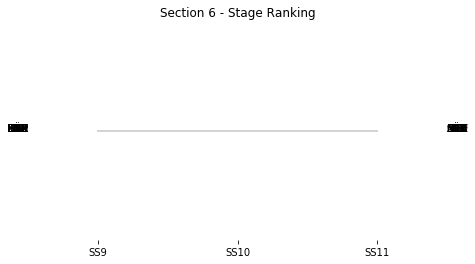
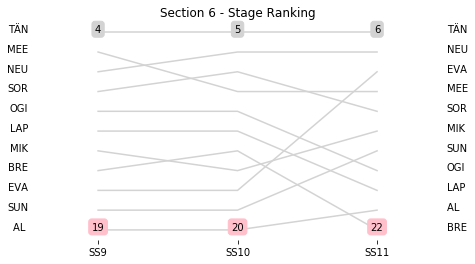
day 2 morning

diff --git a/Section 6_report.md b/Section 6_report.md
@@ -16,63 +16,67 @@ The full scheduled itinerary for the section was as follows:
 
 
 
+
+
 ### Section 6 Report
 Section 6
 
-![](images/spchart_stage_Section 6.png)
+![](images/spchart_stage_Section 6.png)Section 6
+
+![](images/spchart_overall_Section 6.png)
 Stage Result - SS9
 
-|Driver|            Team             |Elapsed Duration|Position|Class Rank|diffFirst|diffPrev|
-|------|-----------------------------|----------------|--------|----------|---------|--------|
-|SOR   |HYUNDAI SHELL MOBIS WRT      |                |NaN     |NaN       |         |        |
-|OGI   |M-SPORT FORD WORLD RALLY TEAM|                |NaN     |NaN       |         |        |
-|NEU   |HYUNDAI SHELL MOBIS WRT      |                |NaN     |NaN       |         |        |
-|TÄN   |TOYOTA GAZOO RACING WRT      |                |NaN     |NaN       |         |        |
-|MEE   |CITROEN TOTAL ABU DHABI WRT  |                |NaN     |NaN       |         |        |
-|EVA   |M-SPORT FORD WORLD RALLY TEAM|                |NaN     |NaN       |         |        |
-|SUN   |M-SPORT FORD WORLD RALLY TEAM|                |NaN     |NaN       |         |        |
-|AL    |CITROEN TOTAL ABU DHABI WRT  |                |NaN     |NaN       |         |        |
-|BRE   |CITROEN TOTAL ABU DHABI WRT  |                |NaN     |NaN       |         |        |
-|MIK   |HYUNDAI SHELL MOBIS WRT      |                |NaN     |NaN       |         |        |
-|LAP   |TOYOTA GAZOO RACING WRT      |                |NaN     |NaN       |         |        |
+|Driver|            Team             |Elapsed Duration|Position|Class Rank|   diffFirst    |    diffPrev    |
+|------|-----------------------------|----------------|-------:|---------:|----------------|----------------|
+|TÄN   |TOYOTA GAZOO RACING WRT      |00:09:00.1000000|       1|         1|00:00:00        |00:00:00        |
+|MEE   |CITROEN TOTAL ABU DHABI WRT  |00:09:03.9000000|       2|         2|00:00:03.8000000|00:00:03.8000000|
+|NEU   |HYUNDAI SHELL MOBIS WRT      |00:09:04.2000000|       3|         3|00:00:04.1000000|00:00:00.3000000|
+|SOR   |HYUNDAI SHELL MOBIS WRT      |00:09:05.7000000|       4|         4|00:00:05.6000000|00:00:01.5000000|
+|OGI   |M-SPORT FORD WORLD RALLY TEAM|00:09:07.9000000|       5|         5|00:00:07.8000000|00:00:02.2000000|
+|LAP   |TOYOTA GAZOO RACING WRT      |00:09:08.5000000|       6|         6|00:00:08.4000000|00:00:00.6000000|
+|MIK   |HYUNDAI SHELL MOBIS WRT      |00:09:10.7000000|       7|         7|00:00:10.6000000|00:00:02.2000000|
+|BRE   |CITROEN TOTAL ABU DHABI WRT  |00:09:11.8000000|       8|         8|00:00:11.7000000|00:00:01.1000000|
+|EVA   |M-SPORT FORD WORLD RALLY TEAM|00:09:17.5000000|       9|         9|00:00:17.4000000|00:00:05.7000000|
+|SUN   |M-SPORT FORD WORLD RALLY TEAM|00:09:21.9000000|      10|        10|00:00:21.8000000|00:00:04.4000000|
+|AL    |CITROEN TOTAL ABU DHABI WRT  |00:09:46.3000000|      19|        11|00:00:46.2000000|00:00:01.2000000|
 
 
 
 
 Stage Result - SS10
 
-|Driver|            Team             |Elapsed Duration|Position|Class Rank|diffFirst|diffPrev|
-|------|-----------------------------|----------------|--------|----------|---------|--------|
-|SOR   |HYUNDAI SHELL MOBIS WRT      |                |NaN     |NaN       |         |        |
-|OGI   |M-SPORT FORD WORLD RALLY TEAM|                |NaN     |NaN       |         |        |
-|BRE   |CITROEN TOTAL ABU DHABI WRT  |                |NaN     |NaN       |         |        |
-|MEE   |CITROEN TOTAL ABU DHABI WRT  |                |NaN     |NaN       |         |        |
-|NEU   |HYUNDAI SHELL MOBIS WRT      |                |NaN     |NaN       |         |        |
-|SUN   |M-SPORT FORD WORLD RALLY TEAM|                |NaN     |NaN       |         |        |
-|AL    |CITROEN TOTAL ABU DHABI WRT  |                |NaN     |NaN       |         |        |
-|MIK   |HYUNDAI SHELL MOBIS WRT      |                |NaN     |NaN       |         |        |
-|LAP   |TOYOTA GAZOO RACING WRT      |                |NaN     |NaN       |         |        |
-|EVA   |M-SPORT FORD WORLD RALLY TEAM|                |NaN     |NaN       |         |        |
-|TÄN   |TOYOTA GAZOO RACING WRT      |                |NaN     |NaN       |         |        |
+|Driver|            Team             |Elapsed Duration|Position|Class Rank|   diffFirst    |    diffPrev    |
+|------|-----------------------------|----------------|-------:|---------:|----------------|----------------|
+|TÄN   |TOYOTA GAZOO RACING WRT      |00:08:16.7000000|       1|         1|00:00:00        |00:00:00        |
+|NEU   |HYUNDAI SHELL MOBIS WRT      |00:08:21.5000000|       2|         2|00:00:04.8000000|00:00:04.8000000|
+|SOR   |HYUNDAI SHELL MOBIS WRT      |00:08:21.8000000|       3|         3|00:00:05.1000000|00:00:00.3000000|
+|MEE   |CITROEN TOTAL ABU DHABI WRT  |00:08:24.2000000|       4|         4|00:00:07.5000000|00:00:02.4000000|
+|OGI   |M-SPORT FORD WORLD RALLY TEAM|00:08:27.9000000|       5|         5|00:00:11.2000000|00:00:03.7000000|
+|LAP   |TOYOTA GAZOO RACING WRT      |00:08:28.4000000|       6|         6|00:00:11.7000000|00:00:00.5000000|
+|BRE   |CITROEN TOTAL ABU DHABI WRT  |00:08:30.2000000|       7|         7|00:00:13.5000000|00:00:01.8000000|
+|MIK   |HYUNDAI SHELL MOBIS WRT      |00:08:32.2000000|       8|         8|00:00:15.5000000|00:00:02        |
+|EVA   |M-SPORT FORD WORLD RALLY TEAM|00:08:33.2000000|       9|         9|00:00:16.5000000|00:00:01        |
+|SUN   |M-SPORT FORD WORLD RALLY TEAM|00:08:39.4000000|      10|        10|00:00:22.7000000|00:00:06.2000000|
+|AL    |CITROEN TOTAL ABU DHABI WRT  |00:09:15.5000000|      20|        11|00:00:58.8000000|00:00:03.3000000|
 
 
 
 
 Stage Result - SS11
 
-|Driver|            Team             |Elapsed Duration|Position|Class Rank|diffFirst|diffPrev|
-|------|-----------------------------|----------------|--------|----------|---------|--------|
-|OGI   |M-SPORT FORD WORLD RALLY TEAM|                |NaN     |NaN       |         |        |
-|BRE   |CITROEN TOTAL ABU DHABI WRT  |                |NaN     |NaN       |         |        |
-|SOR   |HYUNDAI SHELL MOBIS WRT      |                |NaN     |NaN       |         |        |
-|MEE   |CITROEN TOTAL ABU DHABI WRT  |                |NaN     |NaN       |         |        |
-|NEU   |HYUNDAI SHELL MOBIS WRT      |                |NaN     |NaN       |         |        |
-|SUN   |M-SPORT FORD WORLD RALLY TEAM|                |NaN     |NaN       |         |        |
-|AL    |CITROEN TOTAL ABU DHABI WRT  |                |NaN     |NaN       |         |        |
-|MIK   |HYUNDAI SHELL MOBIS WRT      |                |NaN     |NaN       |         |        |
-|LAP   |TOYOTA GAZOO RACING WRT      |                |NaN     |NaN       |         |        |
-|EVA   |M-SPORT FORD WORLD RALLY TEAM|                |NaN     |NaN       |         |        |
-|TÄN   |TOYOTA GAZOO RACING WRT      |                |NaN     |NaN       |         |        |
+|Driver|            Team             |Elapsed Duration|Position|Class Rank|   diffFirst    |    diffPrev    |
+|------|-----------------------------|----------------|-------:|---------:|----------------|----------------|
+|TÄN   |TOYOTA GAZOO RACING WRT      |00:24:31        |       1|         1|00:00:00        |00:00:00        |
+|NEU   |HYUNDAI SHELL MOBIS WRT      |00:24:36.6000000|       2|         2|00:00:05.6000000|00:00:05.6000000|
+|EVA   |M-SPORT FORD WORLD RALLY TEAM|00:24:47.3000000|       3|         3|00:00:16.3000000|00:00:10.7000000|
+|MEE   |CITROEN TOTAL ABU DHABI WRT  |00:24:48.3000000|       4|         4|00:00:17.3000000|00:00:01        |
+|SOR   |HYUNDAI SHELL MOBIS WRT      |00:24:59.4000000|       5|         5|00:00:28.4000000|00:00:11.1000000|
+|MIK   |HYUNDAI SHELL MOBIS WRT      |00:25:02.2000000|       6|         6|00:00:31.2000000|00:00:02.8000000|
+|SUN   |M-SPORT FORD WORLD RALLY TEAM|00:25:19        |       7|         7|00:00:48        |00:00:16.8000000|
+|OGI   |M-SPORT FORD WORLD RALLY TEAM|00:25:25.2000000|       8|         8|00:00:54.2000000|00:00:06.2000000|
+|LAP   |TOYOTA GAZOO RACING WRT      |00:25:35.2000000|       9|         9|00:01:04.2000000|00:00:10        |
+|AL    |CITROEN TOTAL ABU DHABI WRT  |00:27:42        |      16|        10|00:03:11        |00:00:05.5000000|
+|BRE   |CITROEN TOTAL ABU DHABI WRT  |00:34:15        |      22|        11|00:09:44        |00:01:05.5000000|
 
 
 

diff --git a/Section 7_report.md b/Section 7_report.md
@@ -12,19 +12,19 @@ The full scheduled itinerary for the section was as follows:
 
 Stage Result - SS12
 
-|Driver|            Team             |Elapsed Duration|Position|Class Rank|diffFirst|diffPrev|
-|------|-----------------------------|----------------|--------|----------|---------|--------|
-|SOR   |HYUNDAI SHELL MOBIS WRT      |                |NaN     |NaN       |         |        |
-|OGI   |M-SPORT FORD WORLD RALLY TEAM|                |NaN     |NaN       |         |        |
-|TÄN   |TOYOTA GAZOO RACING WRT      |                |NaN     |NaN       |         |        |
-|MEE   |CITROEN TOTAL ABU DHABI WRT  |                |NaN     |NaN       |         |        |
-|NEU   |HYUNDAI SHELL MOBIS WRT      |                |NaN     |NaN       |         |        |
-|BRE   |CITROEN TOTAL ABU DHABI WRT  |                |NaN     |NaN       |         |        |
-|SUN   |M-SPORT FORD WORLD RALLY TEAM|                |NaN     |NaN       |         |        |
-|AL    |CITROEN TOTAL ABU DHABI WRT  |                |NaN     |NaN       |         |        |
-|EVA   |M-SPORT FORD WORLD RALLY TEAM|                |NaN     |NaN       |         |        |
-|MIK   |HYUNDAI SHELL MOBIS WRT      |                |NaN     |NaN       |         |        |
-|LAP   |TOYOTA GAZOO RACING WRT      |                |NaN     |NaN       |         |        |
+|Driver|            Team             |Elapsed Duration|Position|Class Rank|   diffFirst    |    diffPrev    |
+|------|-----------------------------|----------------|-------:|---------:|----------------|----------------|
+|NEU   |HYUNDAI SHELL MOBIS WRT      |00:04:40.8000000|       1|         1|00:00:00        |00:00:00        |
+|SOR   |HYUNDAI SHELL MOBIS WRT      |00:04:41.7000000|       2|         2|00:00:00.9000000|00:00:00.9000000|
+|TÄN   |TOYOTA GAZOO RACING WRT      |00:04:41.7000000|       3|         3|00:00:00.9000000|00:00:00        |
+|OGI   |M-SPORT FORD WORLD RALLY TEAM|00:04:42.1000000|       4|         4|00:00:01.3000000|00:00:00.4000000|
+|MEE   |CITROEN TOTAL ABU DHABI WRT  |00:04:42.7000000|       5|         5|00:00:01.9000000|00:00:00.6000000|
+|MIK   |HYUNDAI SHELL MOBIS WRT      |00:04:43.5000000|       6|         6|00:00:02.7000000|00:00:00.8000000|
+|LAP   |TOYOTA GAZOO RACING WRT      |00:04:44.1000000|       7|         7|00:00:03.3000000|00:00:00.6000000|
+|SUN   |M-SPORT FORD WORLD RALLY TEAM|00:04:45.9000000|       8|         8|00:00:05.1000000|00:00:01.8000000|
+|EVA   |M-SPORT FORD WORLD RALLY TEAM|00:04:46.5000000|       9|         9|00:00:05.7000000|00:00:00.6000000|
+|BRE   |CITROEN TOTAL ABU DHABI WRT  |00:04:53.4000000|      16|        10|00:00:12.6000000|00:00:00.8000000|
+|AL    |CITROEN TOTAL ABU DHABI WRT  |00:05:00.9000000|      21|        11|00:00:20.1000000|00:00:00.4000000|
 
 
 

diff --git a/entries_RC2.md b/entries_RC2.md
@@ -1,17 +1,17 @@
 ## Group RC2:
 
 
-- Kalle ROVANPERÄ (FIN) and Jonne HALTTUNEN (FIN) for the SKODA MOTORSPORT.
-- Pontus TIDEMAND (SWE) and Jonas ANDERSSON (SWE) of the SKODA MOTORSPORT.
-- Marco BULACIA WILKINSON (BOL) and co-driver Fernando MUSSANO (ARG) of the MARCO BULACIA WILKINSON.
+- Kalle ROVANPERÄ (FIN) and co-driver Jonne HALTTUNEN (FIN) for the SKODA MOTORSPORT.
+- Pontus TIDEMAND (SWE) and co-driver Jonas ANDERSSON (SWE) of the SKODA MOTORSPORT.
+- Marco BULACIA WILKINSON (BOL) and Fernando MUSSANO (ARG) for the MARCO BULACIA WILKINSON.
 - Nil SOLANS BALDO (ESP) and Miquel IBAÑEZ SOTOS (ESP) for the NIL SOLANS BALDO.
-- Gustavo SABA (PRY) and co-driver Marcelo DER OHANNESIAN (ARG) for the SABA RODRIGUEZ GUSTAVO.
-- Diego H. DOMINGUEZ S. (PRY) and Edgardo GALINDO (ARG) of the DIEGO H. DOMINGUEZ S..
+- Gustavo SABA (PRY) and Marcelo DER OHANNESIAN (ARG) of the SABA RODRIGUEZ GUSTAVO.
+- Diego H. DOMINGUEZ S. (PRY) and co-driver Edgardo GALINDO (ARG) from the DIEGO H. DOMINGUEZ S..
 - Tiago WEILER (PRY) and co-driver Fabian CRETU (ARG) of the GERARDO TIAGO WEILER VARGAS PEÑA.
-- Alberto HELLER (CHL) and co-driver Jose DIAZ (ARG) of the M-SPORT WORLD RALLY TEAM.
+- Alberto HELLER (CHL) and Jose DIAZ (ARG) for the M-SPORT WORLD RALLY TEAM.
 - Cristobal VIDAURRE (CHL) and Ruben GARCIA (ARG) of the CRISTOBAL VIDAURRE.
-- Alejandro CANCIO (ARG) and Santiago GARCIA (ARG) for the ALEJANDRO DARIO CANCIO.
-- Ole Christian VEIBY (NOR) and Stig Rune SKJÆRMOEN (NOR) for the OC VEIBY.
-- Gus GREENSMITH (GBR) and co-driver Craig PARRY (GBR) from the GUS GREENSMITH.
-- Jocius DEIVIDAS (LTU) and Donatas ZVICEVICIUS (LTU) from the ARTIC ENERGY WRT.
-- Pedro  HELLER (CHL) and Pablo OLMOS (ARG) for the PEDRO HELLER.
+- Alejandro CANCIO (ARG) and Santiago GARCIA (ARG) of the ALEJANDRO DARIO CANCIO.
+- Ole Christian VEIBY (NOR) and Stig Rune SKJÆRMOEN (NOR) of the OC VEIBY.
+- Gus GREENSMITH (GBR) and Craig PARRY (GBR) for the GUS GREENSMITH.
+- Jocius DEIVIDAS (LTU) and Donatas ZVICEVICIUS (LTU) for the ARTIC ENERGY WRT.
+- Pedro  HELLER (CHL) and Pablo OLMOS (ARG) of the PEDRO HELLER.

diff --git a/entries_RC1.md b/entries_RC1.md
@@ -2,14 +2,14 @@
 
 
 - Ott TÄNAK (EST) and Martin JÄRVEOJA (EST) from the TOYOTA GAZOO RACING WRT.
-- Khalid AL QASSIMI (ARE) and co-driver Chris PATTERSON (IRL) from the CITROEN TOTAL ABU DHABI WRT.
-- Andreas MIKKELSEN (NOR) and Anders JAEGER-SYNNEVAAG (NOR) of the HYUNDAI SHELL MOBIS WRT.
-- Sébastien OGIER (FRA) and co-driver Julien INGRASSIA (FRA) from the M-SPORT FORD WORLD RALLY TEAM.
-- Thierry NEUVILLE (BEL) and co-driver Nicolas GILSOUL (BEL) of the HYUNDAI SHELL MOBIS WRT.
-- Jari-Matti LATVALA (FIN) and Miikka ANTTILA (FIN) from the TOYOTA GAZOO RACING WRT.
-- Elfyn EVANS (GBR) and Daniel BARRITT (GBR) from the M-SPORT FORD WORLD RALLY TEAM.
-- Dani SORDO (ESP) and co-driver Carlos DEL BARRIO (ESP) of the HYUNDAI SHELL MOBIS WRT.
-- Esapekka LAPPI (FIN) and Janne FERM (FIN) of the TOYOTA GAZOO RACING WRT.
+- Khalid AL QASSIMI (ARE) and Chris PATTERSON (GBR) of the CITROEN TOTAL ABU DHABI WRT.
+- Andreas MIKKELSEN (NOR) and co-driver Anders JAEGER-SYNNEVAAG (NOR) of the HYUNDAI SHELL MOBIS WRT.
+- Sébastien OGIER (FRA) and Julien INGRASSIA (FRA) of the M-SPORT FORD WORLD RALLY TEAM.
+- Thierry NEUVILLE (BEL) and co-driver Nicolas GILSOUL (BEL) for the HYUNDAI SHELL MOBIS WRT.
+- Jari-Matti LATVALA (FIN) and Miikka ANTTILA (FIN) of the TOYOTA GAZOO RACING WRT.
+- Elfyn EVANS (GBR) and co-driver Daniel BARRITT (GBR) of the M-SPORT FORD WORLD RALLY TEAM.
+- Dani SORDO (ESP) and Carlos DEL BARRIO (ESP) for the HYUNDAI SHELL MOBIS WRT.
+- Esapekka LAPPI (FIN) and co-driver Janne FERM (FIN) from the TOYOTA GAZOO RACING WRT.
 - Kris MEEKE (GBR) and co-driver Paul NAGLE (IRL) from the CITROEN TOTAL ABU DHABI WRT.
-- Craig BREEN (IRL) and co-driver Scott MARTIN (GBR) from the CITROEN TOTAL ABU DHABI WRT.
-- Teemu SUNINEN (FIN) and Mikko MARKKULA (FIN) for the M-SPORT FORD WORLD RALLY TEAM.
+- Craig BREEN (IRL) and co-driver Scott MARTIN (GBR) for the CITROEN TOTAL ABU DHABI WRT.
+- Teemu SUNINEN (FIN) and Mikko MARKKULA (FIN) from the M-SPORT FORD WORLD RALLY TEAM.

diff --git a/SUMMARY.md b/SUMMARY.md
@@ -37,7 +37,6 @@
   - [SS14 - LOS GIGANTES - CUCHILLA NEVADA (II) - Live TV](SS14_report.md)
   - [SS15 - CUCHILLA NEVADA - RIO PINTOS (II)](SS15_report.md)
 
-
 * [Section 9](Section 9_report.md)
   - [SS16 - COPINA - EL CONDOR (Live TV)](SS16_report.md)
   - [SS17 - GIULIO CESARE - MINA CLAVERO](SS17_report.md)

diff --git a/SS10_report.md b/SS10_report.md
@@ -1,0 +1,3 @@
+# Stage Progress Chart - Argentina, 2018 - TÄN - SS10
+
+![](images/stage_report_10_TAN.png)

diff --git a/SS11_report.md b/SS11_report.md
@@ -1,0 +1,3 @@
+# Stage Progress Chart - Argentina, 2018 - TÄN - SS11
+
+![](images/stage_report_11_TAN.png)

diff --git a/SS12_report.md b/SS12_report.md
@@ -1,0 +1,3 @@
+# Stage Progress Chart - Argentina, 2018 - TÄN - SS12
+
+![](images/stage_report_12_TAN.png)

diff --git a/SS9_report.md b/SS9_report.md
@@ -1,0 +1,3 @@
+# Stage Progress Chart - Argentina, 2018 - TÄN - SS9
+
+![](images/stage_report_9_TAN.png)
